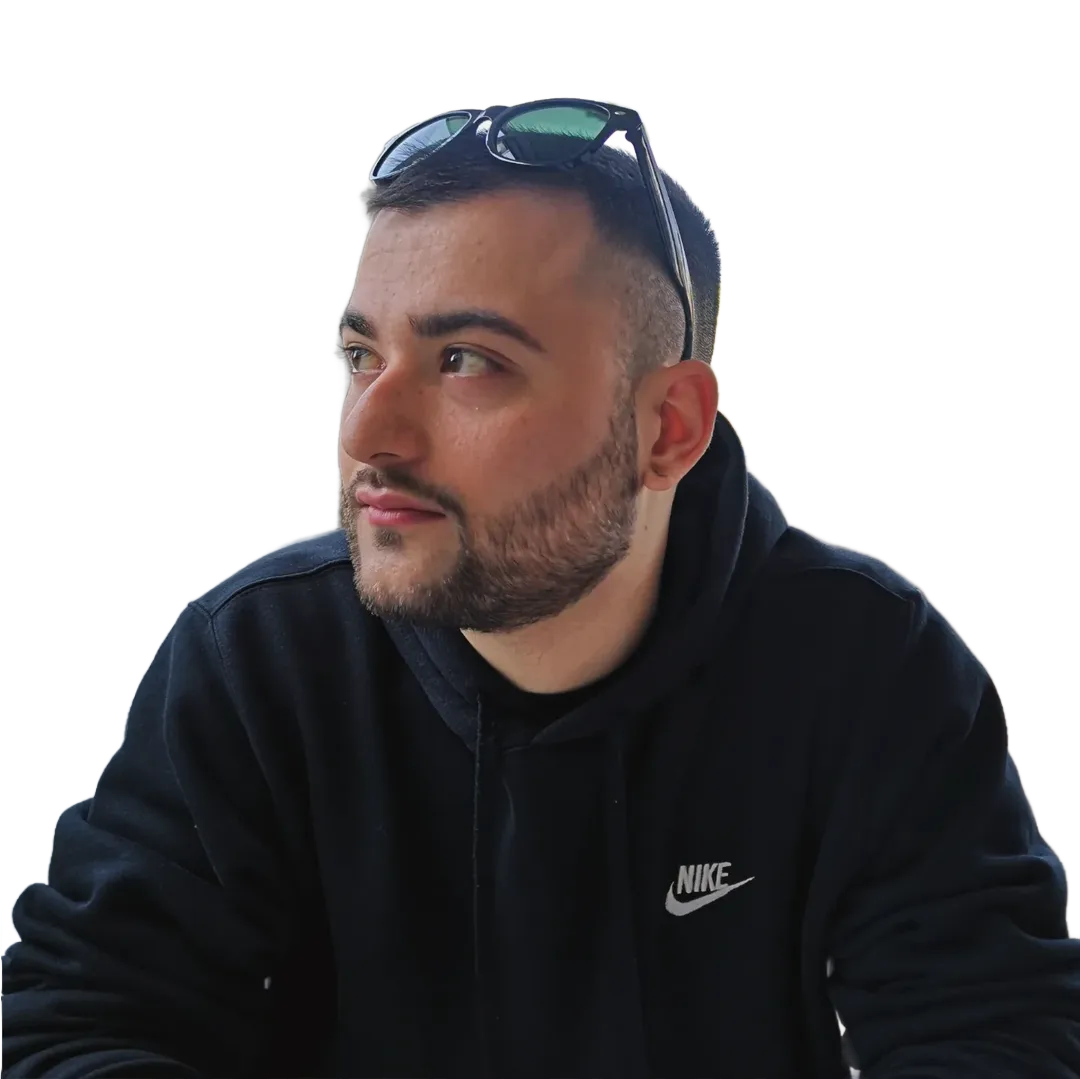
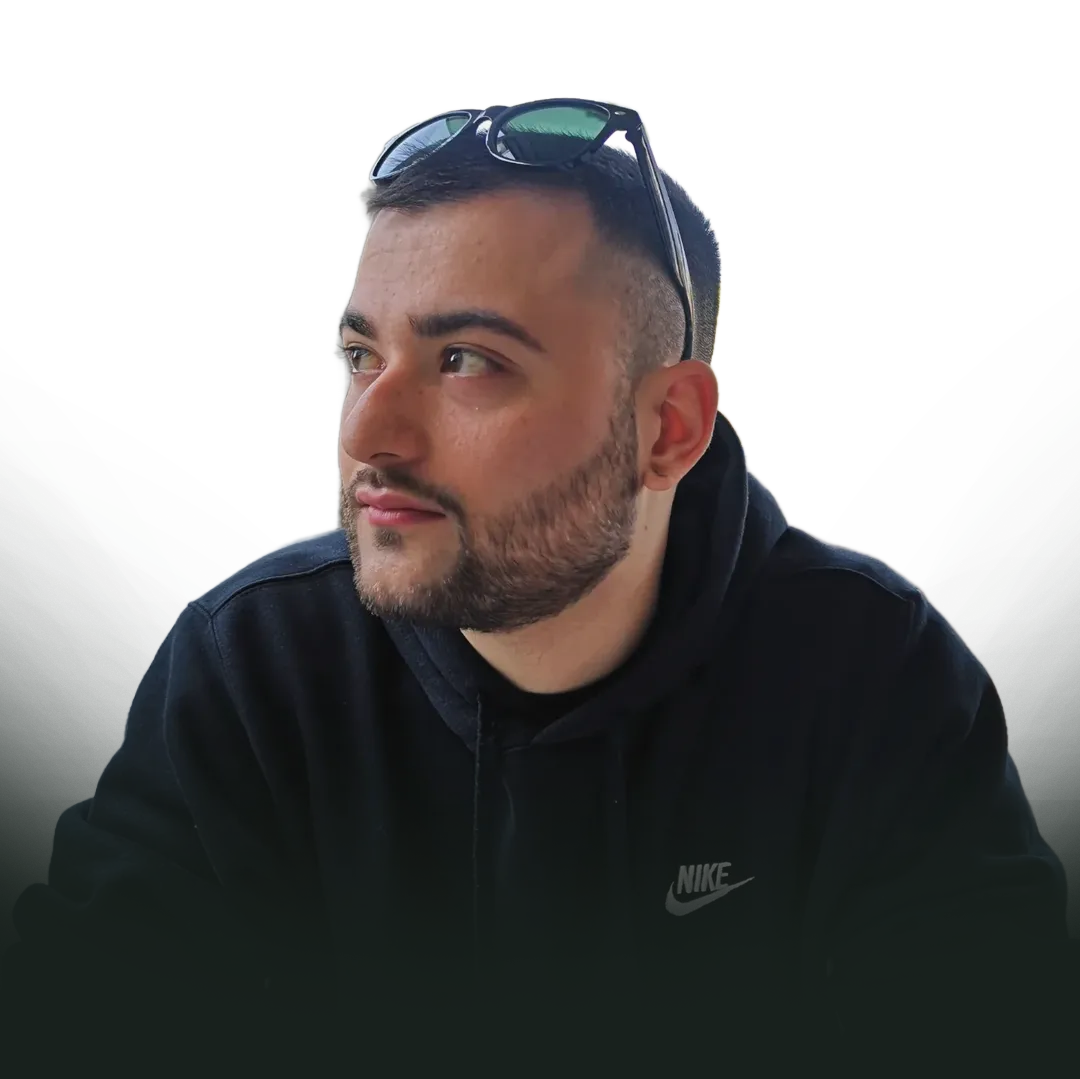
script di invio email + popup inoltro email + fix grafici

diff --git a/components/contacts/contacts.js b/components/contacts/contacts.js
@@ -1,9 +1,49 @@
-// CONTATORECARATTERI TEXTAREA
+// CONTATORE CARATTERI TEXTAREA
 function charCounterTextArea() {
     const textarea = document.getElementById('contacts-idea');
     const counter = document.getElementById('char-count');
 
     textarea.addEventListener('input', () => {
         counter.textContent = `${textarea.value.length} / 300`;
+    });
+}
+
+// COMPILAZIONE MESSAGGIO EMAIL
+function initMailSenderContacts() {
+    const form = document.getElementById("contacts-form");
+    const popup = document.getElementById("mail-popup");
+
+    form.addEventListener("submit", function (e) {
+        e.preventDefault();
+
+        const nome = document.getElementById("contacts-name").value.trim();
+        const telefono = document.getElementById("contacts-telephone").value.trim();
+        const idea = document.getElementById("contacts-idea").value.trim();
+
+        if (!nome || !telefono || !idea) {
+            alert("Per favore compila tutti i campi.");
+            return;
+        }
+
+        const subject = encodeURIComponent(`Contatto per richiesta di lavoro - "${nome}"`);
+        const body = encodeURIComponent(
+            `Ciao Mario,\n\n` +
+            `Sono ${nome} e ti contatto per questa idea:\n\n` +
+            `${idea}\n\n` +
+            `Ti lascio il mio recapito telefonico per poter essere ricontattato:\n` +
+            `Tel. ${telefono}\n\n` +
+            `Grazie!`
+        );
+
+        const mailtoLink = `mailto:mario.zaccardi12@gmail.com?subject=${subject}&body=${body}`;
+
+        popup.style.display = "flex";
+
+        setTimeout(() => {
+            window.location.href = mailtoLink;
+            setTimeout(() => {
+                popup.style.display = "none";
+            }, 2000);
+        }, 500);
     });
 }

diff --git a/components/contacts/contacts.html b/components/contacts/contacts.html
@@ -17,7 +17,8 @@
         <input type="text" placeholder="Nome" id="contacts-name" class="w-100 poppins-regular contacts-field">
 
         <!-- TELEFONO -->
-        <input type="tel" placeholder="Telefono" id="contacts-telephone" class="w-100 poppins-regular contacts-field">
+        <input type="tel" placeholder="Telefono" id="contacts-telephone" class="w-100 poppins-regular contacts-field"
+            pattern="^\+?\d{7,15}$">
 
         <!-- IDEA -->
         <textarea placeholder="La tua idea" id="contacts-idea" class="w-100 poppins-regular contacts-field"
@@ -29,4 +30,17 @@
         </button>
 
     </form>
+</div>
+
+<!-- POPUP INOLTRO MAIL -->
+<div id="mail-popup" class="mail-popup">
+    <div class="mail-popup-content">
+        <h2 class="poppins-extrabold">Apertura client mail in corso...</h2>
+        <p class="poppins-regular">
+            Sto preparando la tua mail… in attesa di avvio del client di posta elettronica.
+        </p>
+
+        <!-- SPINNER -->
+        <div class="spinner"></div>
+    </div>
 </div>

diff --git a/components/contacts/contacts.css b/components/contacts/contacts.css
@@ -57,3 +57,48 @@
     color: var(--color-green-light);
     font-size: 16px;
 }
+
+/* POPUP INOLTRO MAIL */
+.mail-popup {
+    display: none;
+    justify-content: center;
+    align-items: center;
+    position: fixed;
+    top: 0;
+    left: 0;
+    width: 100%;
+    height: 100%;
+    background: #1b2520f1;
+    z-index: 1000;
+    padding: 0.8rem;
+}
+
+.mail-popup-content {
+    background: var(--color-green-darker);
+    padding: 2rem 2.8rem;
+    border-radius: 12px;
+    font-size: 16px;
+    text-align: start;
+    color: var(--color-white);
+
+    @media (max-width: 991px) {
+        width: 100%;
+    }
+}
+
+/* SPINNER */
+.spinner {
+    margin: 1.5rem auto 0 auto;
+    width: 40px;
+    height: 40px;
+    border: 4px solid rgba(255, 255, 255, 0.3);
+    border-top-color: var(--color-red);
+    border-radius: 50%;
+    animation: spin 1s linear infinite;
+}
+
+@keyframes spin {
+    to {
+        transform: rotate(360deg);
+    }
+}

diff --git a/index.html b/index.html
@@ -72,11 +72,10 @@
 
     <!-- CREDITS -->
     <div class="credits w-100 text-center py-2">
-        <span class="credits-text poppins-regular">&copy; <span id="credits-year"></span> Mario Zaccardi. Tutti i
-            diritti
-            riservati.</span>
+        <span class="credits-text poppins-regular">&copy; <span id="credits-year"></span>
+            Mario Zaccardi. Tutti i diritti riservati.
+        </span>
     </div>
-
 
     <script src="assets/scripts/loadComponents.js"></script>
     <script src="components/about-me/about-me.js"></script>

diff --git a/assets/styles/style.css b/assets/styles/style.css
@@ -16,7 +16,8 @@ body {
     max-height: 100vh;
 }
 
-.main-container, #footer {
+.main-container,
+#footer {
     width: 100%;
     max-width: clamp(320px, 90vw, 1200px);
     margin: 0 auto;
@@ -80,7 +81,8 @@ ul {
     margin: 6rem 0;
 }
 
-#about-me, #contacts {
+#about-me,
+#contacts {
     margin: 6rem 0 0 0;
 }
 

diff --git a/assets/scripts/loadComponents.js b/assets/scripts/loadComponents.js
@@ -41,6 +41,7 @@ fetch('/components/contacts/contacts.html')
     .then(res => res.text())
     .then(data => {
         document.getElementById('contacts').innerHTML = data;
+        initMailSenderContacts();
         charCounterTextArea();
     });
 
